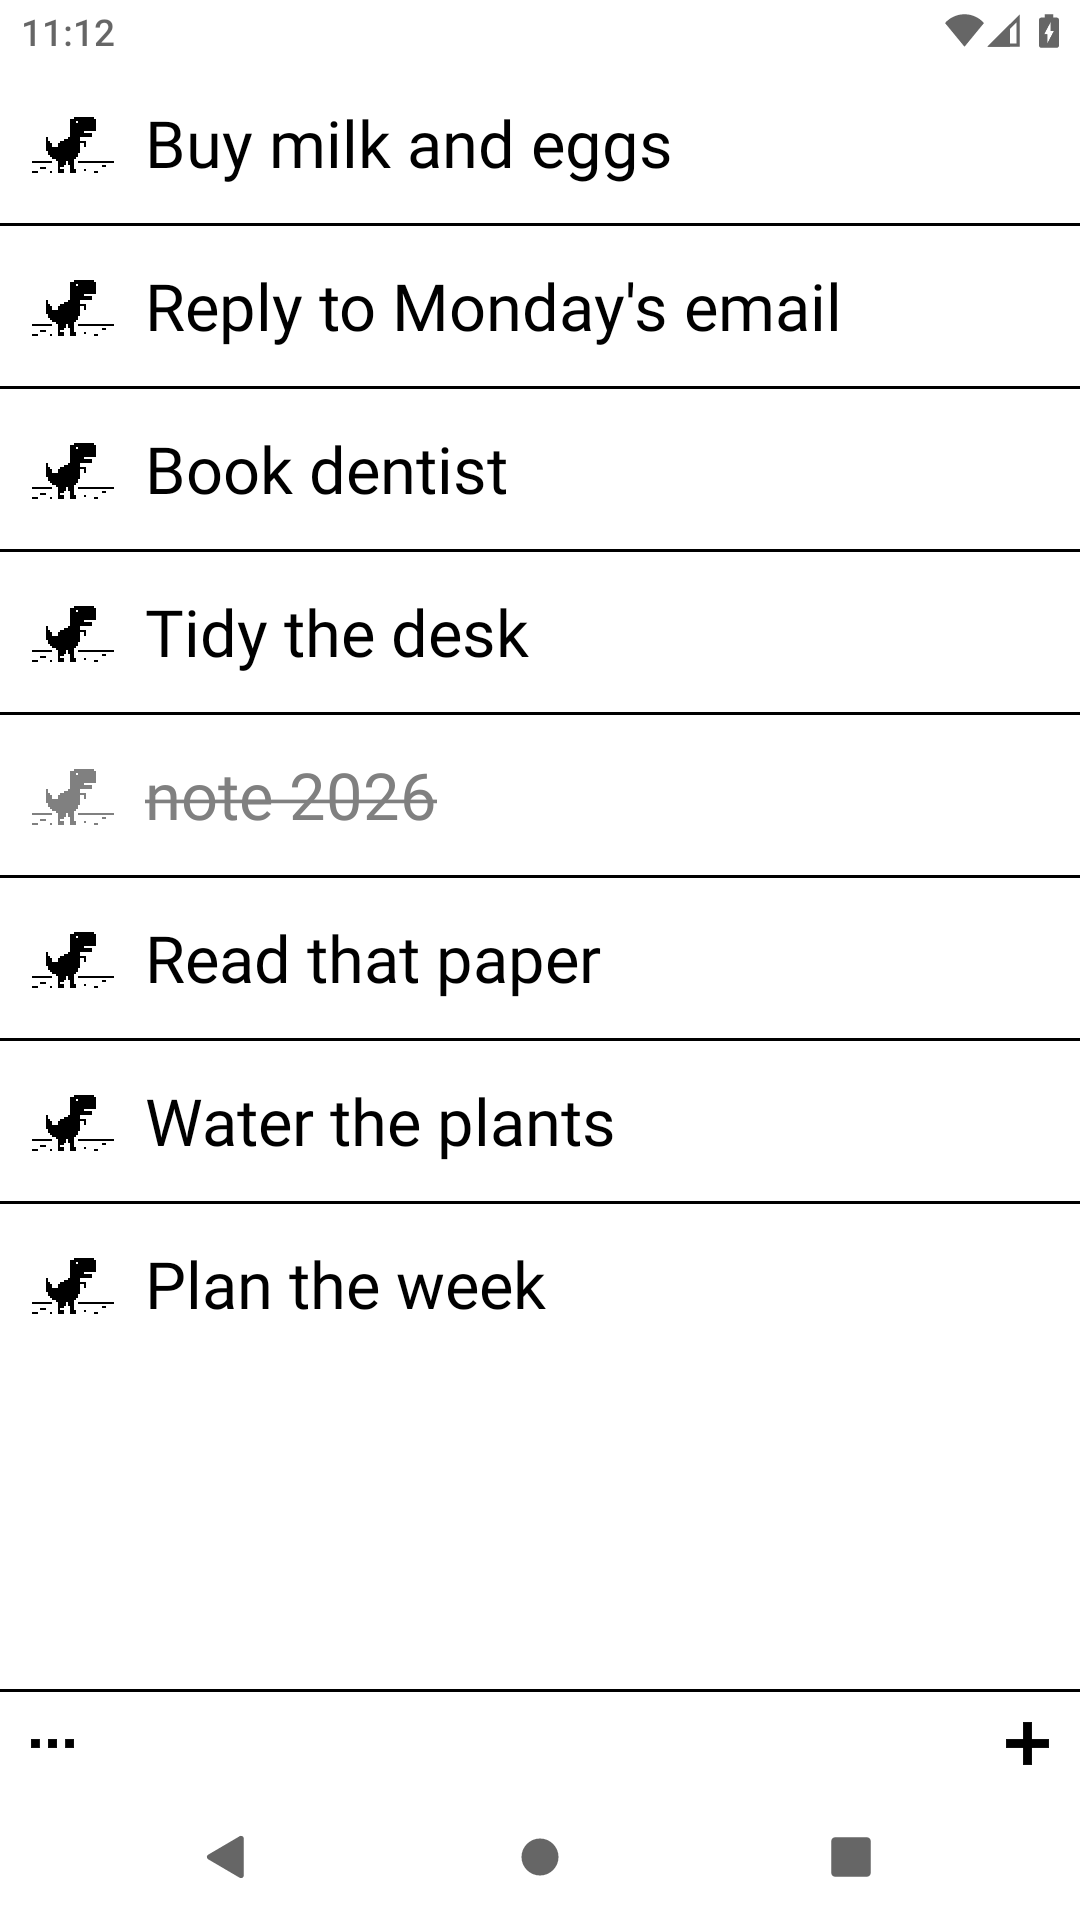
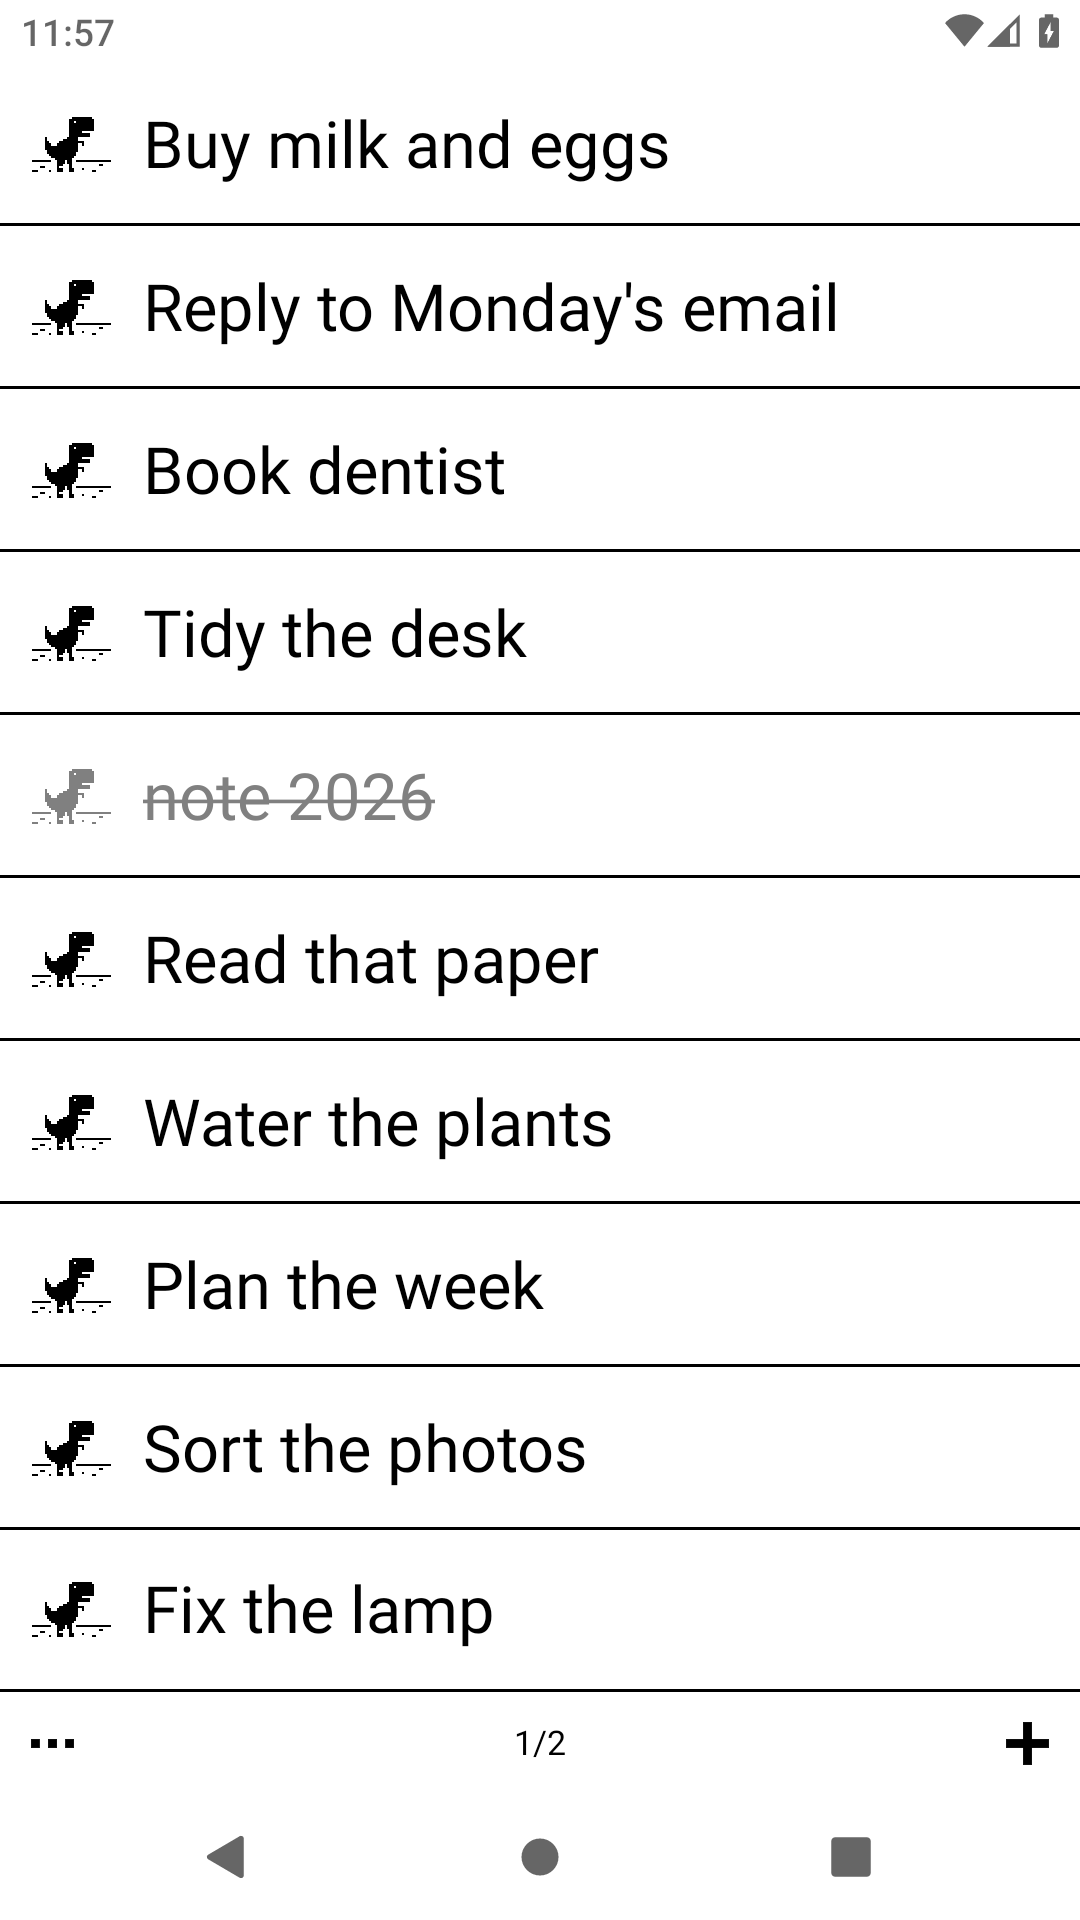
feat: 横屏像素小图随行高等比缩放；设置内新增语言切换（跟随系统/English/简体中文）（v0.12.0）

diff --git a/android/app/src/main/java/com/einkmemo/app/SecondaryScreens.kt b/android/app/src/main/java/com/einkmemo/app/SecondaryScreens.kt
@@ -1,5 +1,8 @@
 package com.einkmemo.app
 
+import android.app.Activity
+import android.content.Context
+import android.content.ContextWrapper
 import androidx.activity.compose.BackHandler
 import androidx.compose.foundation.background
 import androidx.compose.foundation.clickable
@@ -23,6 +26,7 @@ import androidx.compose.runtime.remember
 import androidx.compose.runtime.setValue
 import androidx.compose.ui.Alignment
 import androidx.compose.ui.Modifier
+import androidx.compose.ui.platform.LocalContext
 import androidx.compose.ui.res.stringArrayResource
 import androidx.compose.ui.res.stringResource
 import androidx.compose.ui.text.style.TextDecoration
@@ -54,9 +58,56 @@ fun SettingsScreen(store: MemoStore) {
                 else R.string.settings_font_system_sub
             ),
         ) { store.toggleFontMode() }
+        MenuRowTall(
+            stringResource(R.string.settings_language),
+            languageName(store.languageMode),
+        ) { store.screen = Screen.Language }
         MenuRow(stringResource(R.string.settings_help), chevron = true) { store.screen = Screen.Help }
         MenuRow(stringResource(R.string.settings_about), chevron = true) { store.screen = Screen.About }
     }
+}
+
+@Composable
+private fun languageName(mode: LanguageMode): String = stringResource(
+    when (mode) {
+        LanguageMode.System -> R.string.language_system
+        LanguageMode.English -> R.string.language_english
+        LanguageMode.Chinese -> R.string.language_chinese
+    }
+)
+
+private tailrec fun Context.findActivity(): Activity? = when (this) {
+    is Activity -> this
+    is ContextWrapper -> baseContext.findActivity()
+    else -> null
+}
+
+private fun applyLanguage(store: MemoStore, context: Context, mode: LanguageMode) {
+    if (store.languageMode == mode) return
+    store.updateLanguageMode(mode)
+    context.findActivity()?.recreate()
+}
+
+@Composable
+fun LanguageScreen(store: MemoStore) {
+    val context = LocalContext.current
+    Column(Modifier.fillMaxSize().background(InkWhite)) {
+        NavRow { store.screen = Screen.Settings }
+        LanguageOption(stringResource(R.string.language_system), store.languageMode == LanguageMode.System) {
+            applyLanguage(store, context, LanguageMode.System)
+        }
+        LanguageOption(stringResource(R.string.language_english), store.languageMode == LanguageMode.English) {
+            applyLanguage(store, context, LanguageMode.English)
+        }
+        LanguageOption(stringResource(R.string.language_chinese), store.languageMode == LanguageMode.Chinese) {
+            applyLanguage(store, context, LanguageMode.Chinese)
+        }
+    }
+}
+
+@Composable
+private fun LanguageOption(title: String, selected: Boolean, onClick: () -> Unit) {
+    MenuRowTall(title, if (selected) stringResource(R.string.language_current) else "") { onClick() }
 }
 
 @Composable

diff --git a/android/app/src/main/java/com/einkmemo/app/MemoStore.kt b/android/app/src/main/java/com/einkmemo/app/MemoStore.kt
@@ -15,6 +15,8 @@ import org.json.JSONObject
 import java.util.UUID
 
 const val PAGE_SIZE = 10
+const val PREFS_NAME = "einkmemo"
+const val K_LANGUAGE = "language_mode"
 
 private const val K_ITEMS = "items_json"
 private const val K_REVISION = "revision"
@@ -40,9 +42,11 @@ data class NoteItem(
     val updatedAt: Long,
 )
 
-enum class Screen { Main, Settings, WebDav, Archive, About, Help }
+enum class Screen { Main, Settings, WebDav, Archive, About, Help, Language }
 
 enum class FontMode { System, Pixel }
+
+enum class LanguageMode { System, English, Chinese }
 
 enum class EditMode { Add, Edit }
 
@@ -54,7 +58,7 @@ data class SyncConflict(
 )
 
 class MemoStore(context: Context) {
-    private val prefs: SharedPreferences = context.getSharedPreferences("einkmemo", Context.MODE_PRIVATE)
+    private val prefs: SharedPreferences = context.getSharedPreferences(PREFS_NAME, Context.MODE_PRIVATE)
     private val appContext = context.applicationContext
     private val scope = CoroutineScope(SupervisorJob() + Dispatchers.Main)
     private val client = WebDavClient(context)
@@ -89,6 +93,14 @@ class MemoStore(context: Context) {
         private set
     var fontMode by mutableStateOf(
         if (prefs.getInt(K_FONT_MODE, 0) == 1) FontMode.Pixel else FontMode.System
+    )
+        private set
+    var languageMode by mutableStateOf(
+        when (prefs.getInt(K_LANGUAGE, 0)) {
+            1 -> LanguageMode.English
+            2 -> LanguageMode.Chinese
+            else -> LanguageMode.System
+        }
     )
         private set
     var swapId by mutableStateOf<String?>(null)
@@ -334,6 +346,16 @@ class MemoStore(context: Context) {
     fun toggleFontMode() {
         fontMode = if (fontMode == FontMode.Pixel) FontMode.System else FontMode.Pixel
         prefs.edit().putInt(K_FONT_MODE, if (fontMode == FontMode.Pixel) 1 else 0).apply()
+    }
+
+    fun updateLanguageMode(mode: LanguageMode) {
+        languageMode = mode
+        val value = when (mode) {
+            LanguageMode.System -> 0
+            LanguageMode.English -> 1
+            LanguageMode.Chinese -> 2
+        }
+        prefs.edit().putInt(K_LANGUAGE, value).apply()
     }
 
     // ---------- sync config / test ----------

diff --git a/android/app/src/main/java/com/einkmemo/app/MainActivity.kt b/android/app/src/main/java/com/einkmemo/app/MainActivity.kt
@@ -1,13 +1,29 @@
 package com.einkmemo.app
 
+import android.content.Context
+import android.content.res.Configuration
 import android.os.Bundle
 import android.util.Log
 import android.view.KeyEvent
 import androidx.activity.ComponentActivity
 import androidx.activity.compose.setContent
+import java.util.Locale
 
 class MainActivity : ComponentActivity() {
     var pageKeyHandler: ((Int) -> Boolean)? = null
+
+    override fun attachBaseContext(newBase: Context) {
+        val mode = newBase.getSharedPreferences(PREFS_NAME, Context.MODE_PRIVATE)
+            .getInt(K_LANGUAGE, 0)
+        if (mode == 0) {
+            super.attachBaseContext(newBase)
+            return
+        }
+        val locale = if (mode == 1) Locale.ENGLISH else Locale.SIMPLIFIED_CHINESE
+        val config = Configuration(newBase.resources.configuration)
+        config.setLocale(locale)
+        super.attachBaseContext(newBase.createConfigurationContext(config))
+    }
 
     override fun onCreate(savedInstanceState: Bundle?) {
         super.onCreate(savedInstanceState)

diff --git a/android/app/src/main/java/com/einkmemo/app/MainScreen.kt b/android/app/src/main/java/com/einkmemo/app/MainScreen.kt
@@ -122,8 +122,8 @@ private fun NoteRow(
         Rect().also { paint.getTextBounds("国", 0, 1, it) }
     }
     var opticalOffset by remember(fontSp, rowPx) { mutableStateOf(0f) }
-    val iconScale = maxOf(1, (rowPx * 0.5f / 46f).roundToInt())
-    val iconSizeDp = with(density) { (46f * iconScale / density.density).dp }
+    // 小图随行高连续缩放（不再取整到 46 的整数倍），横屏/小行高时不会显小
+    val iconSizeDp = with(density) { (rowPx * 0.55f / density.density).dp }
     // SVG 内左/右留白（3/46、2/46）；让「图标到屏幕」与「图标到文字」的视觉间距相同
     val visualGap = 12.dp
     val iconStartDp = (visualGap - iconSizeDp * (3f / 46f)).coerceAtLeast(0.dp)

diff --git a/android/app/src/main/java/com/einkmemo/app/AppRoot.kt b/android/app/src/main/java/com/einkmemo/app/AppRoot.kt
@@ -69,6 +69,7 @@ fun AppRoot(activity: MainActivity) {
             Screen.Archive -> ArchiveScreen(store)
             Screen.About -> AboutScreen(store)
             Screen.Help -> HelpScreen(store)
+            Screen.Language -> LanguageScreen(store)
         }
         if (!store.seenHint && store.screen == Screen.Main) {
             HintOverlay()

diff --git a/docs/SPEC.md b/docs/SPEC.md
@@ -23,7 +23,7 @@
 - 首启一次性提示「右滑划掉 · 点击编辑 · 点小图换位 · 上下滑翻页」，任何操作后永久消失
 
 ### 二级页（整页切换、零动画，统一行高 64dp）
-- 设置：WebDAV 设置 › / 立即同步（上次时间·结果）/ 归档已完成 (n)（执行归档）/ 归档记录 (m) › / 字体（系统 / 像素） / 帮助 › / 关于 ›
+- 设置：WebDAV 设置 › / 立即同步（上次时间·结果）/ 归档已完成 (n)（执行归档）/ 归档记录 (m) › / 字体（系统 / 像素）/ 语言（跟随系统 / English / 简体中文）/ 帮助 › / 关于 ›
 - WebDAV 设置：地址、用户名、密码、远端文件、测试连接、保存（全部 64dp 行高，标签左置、输入框右置；测试结果作为「测试连接」行内副文本）
 - 归档记录：按归档日期倒序分组；点击行 → 操作条：还原为未完成 / 永久删除 / 取消
 - 关于：版本、字体署名

diff --git a/docs/releases/v0.12.0.md b/docs/releases/v0.12.0.md
@@ -1,0 +1,20 @@
+## EinkMemo v0.12.0
+
+### New
+
+- **Language switch in Settings**: follow the system language, or choose English / 简体中文 manually. The choice persists and applies immediately.
+- **Landscape doodle fix**: the pixel doodle before each note now scales continuously with the row height, so it no longer looks too small in landscape or on smaller screens.
+
+### Also included
+
+- 1-bit minimal list, swipe-to-cross, tap/swipe-left to edit, continuous adding
+- Tap the doodle to select a row, then tap another row to swap positions
+- Manual WebDAV sync with conflict choice; credentials encrypted via Android Keystore
+- Archive, system and pixel fonts, responsive layout (3–10 rows), portrait and landscape
+
+### Install
+
+1. Download `EinkMemo-0.12.0-debug.apk` below.
+2. Install it over EinkMemo 0.11.0 (same package and signing key, data preserved).
+
+Debug-signed for sideloading. Source, docs and build instructions in the repository.

diff --git a/README.md b/README.md
@@ -18,7 +18,7 @@ EinkMemo is a tiny notes / to-do app designed for e-ink readers and any Android 
 - **Manual WebDAV sync**: one `notes.json` on your own NAS. If both sides changed, choose which copy to keep.
 - **Keystore-protected credentials**: WebDAV username and password are encrypted with AES-256-GCM via the Android Keystore.
 - **Two fonts**: switch between the system font and the bundled pixel font.
-- **English and 简体中文** UI, following the system language.
+- **English and 简体中文** UI: follow the system language, or pick one in Settings → Language.
 
 ## Install
 
